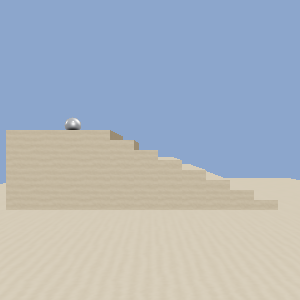
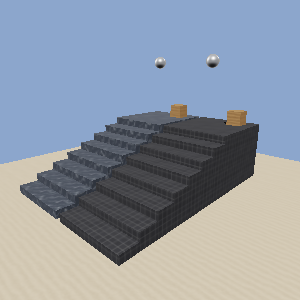
TUTORIALS physics_stairs_material: wet stone and rubber lanes side by side
- physics_stairs_material: two flights, wet-stone (defined, friction 0.05, restitution 0) and rubber (preset); a wooden crate and a dropped steel ball on each, pushed alike
- test_physics_tutorials: the wet-stone crate ends on the floor and the rubber one on its landing; the ball rebounds 0.585 m from rubber and 0.059 m from wet stone
- docs/physics.rst: the tutorial's row names what it shows
- reference image and docs screenshot of the new scene

Changed region(s): [[0.0, 0.33, 1.0, 0.9], [0.51, 0.18, 0.57, 0.24], [0.69, 0.18, 0.75, 0.24]]

diff --git a/tests/tutorials/physics/physics_stairs_material.py b/tests/tutorials/physics/physics_stairs_material.py
@@ -5,28 +5,112 @@
 
 A material says how a surface grips and bounces. Four are defined from the
 start: ``wood``, ``metal``, ``rubber`` and ``ice``. ``physics.materials.define``
-adds others, and a body takes one by name. The stairs of
-:doc:`physics_stairs` become wet stone: slippery, and dead to a bounce.
+adds others, and a body takes one by name.
+
+The stairs of :doc:`physics_stairs` are split into two lanes. The left lane is
+wet stone, a material defined here: slippery, and dead to a bounce. The right
+lane is rubber matting, the preset. Each lane has a wooden crate on its landing
+and a steel ball dropped onto it, and the two lanes' crates and balls get the
+same push down the stairs. The crate on the wet stone skids off the landing and
+slides down to the floor; the crate on the rubber stops on its landing, 1.4 m
+from where it started. The ball dropped on the rubber bounces 0.6 m back up;
+the ball dropped on the wet stone rises 6 cm.
 '''
-from physics_stairs import START, StairsContext
+from OpenGLContext.scenegraph import surfaces
+from OpenGLContext.scenegraph.basenodes import (
+    Background, DirectionalLight, Transform, sceneGraph,
+)
+
+from physics_stairs import RADIUS, RISE, RUN, STEPS, StairsContext, make_ball
+
+'''Each lane is 2.4 m wide, centred 1.3 m either side of the middle, with a
+0.2 m gap between them. The crates are 0.5 m cubes. Each ball starts 2 m above
+its landing, and each crate stands on the landing 1.6 m behind the first step.'''
+WIDTH = 2.4
+LANES = {'wet-stone': -1.3, 'rubber': 1.3}
+CRATE = 0.5
+TOP = STEPS * RISE
+DROP = 2.0
+BACK = -1.6
+
+
+def make_flight(maps, x, roughness):
+    '''A landing and eight steps, ``WIDTH`` wide and centred on ``x``, of the
+    stone or matting ``maps`` describes.'''
+    wearing = surfaces.pbr_material(maps, roughness=roughness)
+    parts = [surfaces.shape(surfaces.block((WIDTH, TOP, 2)), wearing,
+                            translation=(x, TOP / 2, -1))]
+    for step in range(STEPS):
+        height = (STEPS - step) * RISE
+        parts.append(surfaces.shape(
+            surfaces.block((WIDTH, height, RUN)), wearing,
+            translation=(x, height / 2, step * RUN + RUN / 2)))
+    return Transform(children=parts)
+
+
+def make_crate():
+    '''A crate of planed oak.'''
+    oak = surfaces.pbr_material(surfaces.wood(256), roughness=0.8)
+    return surfaces.shape(surfaces.block((CRATE, CRATE, CRATE)), oak)
 
 
 class TestContext(StairsContext):
+    '''The camera stands below the stairs and to the right, so that both lanes
+    and the drop of each step show.'''
+    initialPosition = (6.0, 3.8, 7.6)
+    initialOrientation = (-0.3413, 0.9302, 0.1349, 0.8039)
+
     def OnInit(self):
-        super().OnInit()
+        '''The wet stone is a black marble with a polish on it, and the
+        matting is black rubber tiles. The floor is the sandstone of the series.'''
+        self.flights = {
+            'wet-stone': make_flight(
+                surfaces.marble(256, base=(0.08, 0.09, 0.11), vein=(0.42, 0.44, 0.47),
+                                polish=0.1), LANES['wet-stone'], 1.0),
+            'rubber': make_flight(
+                surfaces.tiles(256, count=6, colour=(0.05, 0.05, 0.055),
+                               grout=(0.16, 0.16, 0.16), glaze=0.9),
+                LANES['rubber'], 1.0),
+        }
+        sandstone = surfaces.pbr_material(surfaces.sandstone(256), roughness=0.9)
+        floor = surfaces.shape(surfaces.block((12, 0.2, 14)), sandstone,
+                               translation=(0, -0.1, 2))
+        self.balls = {name: make_ball() for name in LANES}
+        self.crates = {name: make_crate() for name in LANES}
+        self.sg = sceneGraph(children=[
+            Background(skyColor=[(0.55, 0.65, 0.8)]),
+            DirectionalLight(direction=(-0.4, -0.7, -0.5), intensity=3.0),
+            floor, *self.flights.values(), *self.balls.values(), *self.crates.values(),
+        ])
         '''``friction`` is the coefficient of friction, as a pair of surfaces
-        slides and as they hold; 0.1 is nearly ice and 1.0 is rubber on
+        slides and as they hold; 0.05 is nearly ice and 1.0 is rubber on
         concrete. ``restitution`` is the fraction of the closing speed a bounce
-        returns, from 0 for clay to 1 for a bounce that loses nothing. Where two
-        bodies meet, each coefficient is the average of the two materials'.'''
-        self.physics.materials.define('wet-stone', friction=0.1, restitution=0.05)
-        '''The stairs are in the scene, so they are already static. Adding them
-        again with a material replaces the body the scene made for them. Doing it
+        returns, from 0 for clay to 1 for a bounce that loses nothing.'''
+        self.physics.materials.define('wet-stone', friction=0.05, restitution=0.0)
+        '''The flights are in the scene, so they are already static. Adding one
+        again with a material replaces the body the scene made for it. Doing it
         before the first frame, as here, means the scene's body is never made.'''
-        self.stairs_body = self.physics.add_static(self.stairs, material='wet-stone')
-        self.body = self.physics.add_dynamic(
-            self.ball, translation=START, mass=2.0, restitution=0.4)
-        self.body.apply_impulse((0, 0, 8))
+        self.lanes = {name: self.physics.add_static(flight, material=name)
+                      for name, flight in self.flights.items()}
+        '''Where two bodies meet, each coefficient is the average of the two
+        materials'. The crates are ``wood``, which has a friction of 0.4 and a
+        restitution of 0.2, so a crate grips the wet stone at 0.225 and the
+        rubber at 0.65. The ball has a restitution of 0.4, so it keeps 20% of
+        its speed from a bounce on the wet stone and 60% on the rubber.
+
+        The pushes are the same in both lanes: 45 N*s on a 10 kg crate is
+        4.5 m/s, and 4 N*s on a 2 kg ball is 2 m/s.'''
+        self.bodies = {}
+        for name, x in LANES.items():
+            crate = self.physics.add_dynamic(
+                self.crates[name], proxy='box', material='wood', mass=10.0,
+                translation=(x + 0.6, TOP + CRATE / 2 + 0.01, BACK))
+            ball = self.physics.add_dynamic(
+                self.balls[name], mass=2.0, restitution=0.4,
+                translation=(x - 0.6, TOP + RADIUS + DROP, BACK))
+            crate.apply_impulse((0, 0, 45))
+            ball.apply_impulse((0, 0, 4))
+            self.bodies[name] = crate, ball
 
 
 if __name__ == '__main__':

diff --git a/tests/unit/test_physics_tutorials.py b/tests/unit/test_physics_tutorials.py
@@ -195,23 +195,47 @@ def test_the_proxies_are_drawn_over_the_scene(gl_context):
 
 # -- 4. a new material ------------------------------------------------------------------
 
-def test_the_stairs_take_the_defined_material_and_the_ball_leaves_them_sooner(gl_context):
-    def seconds_to_floor(name):
-        with running('physics', name) as run:
-            run.frame()
-            assert run.until(lambda: run.context.ball.translation[1] < 0.3, seconds=30.0)
-            return run.clock.elapsed
+def run_both_lanes(seconds=6.0):
+    """Each lane's crate where it ends, and how high each ball rose from its landing after the first strike.
 
-    plain = seconds_to_floor('physics_stairs')
+    The heights are read after every step of the world, so a bounce between
+    two frames is not missed.
+    """
     with running('physics', 'physics_stairs_material') as run:
-        run.frame()
-        assert run.until(lambda: run.context.ball.translation[1] < 0.3, seconds=30.0)
-        wet = run.clock.elapsed
-        assert run.context.stairs_body.material == 'wet-stone'
-        defined = run.physics.materials.get('wet-stone').material
-        assert defined.dynamicFriction == pytest.approx(0.1)
-        assert defined.restitution == pytest.approx(0.05)
-    assert wet < plain
+        context, module = run.context, run.module
+        assert {name: body.material for name, body in context.lanes.items()} == {
+            'wet-stone': 'wet-stone', 'rubber': 'rubber'}
+        balls = {name: ball for name, (_, ball) in context.bodies.items()}
+        landed, rebound = set(), dict.fromkeys(balls, 0.0)
+
+        def record(view):
+            for name, at in zip(balls, view.poses(list(balls.values())).position):
+                above = float(at[1]) - module.RADIUS - module.TOP
+                if above < 0.01:
+                    landed.add(name)
+                elif name in landed and at[2] < module.RUN:      # over the landing or the top step
+                    rebound[name] = max(rebound[name], above)
+
+        run.physics.on_step(record)
+        run.seconds(seconds)
+        crates = {name: np.array(crate.position) for name, (crate, _) in context.bodies.items()}
+        return crates, rebound, landed
+
+
+def test_the_crate_skids_off_the_wet_stone_and_holds_on_the_rubber(gl_context):
+    crates, _, _ = run_both_lanes()
+    wet, rubber = crates['wet-stone'], crates['rubber']
+    assert wet[1] < 0.3 and wet[2] > 5.0                # on the floor below the stairs (z 5.34)
+    assert rubber[1] > 2.2 and rubber[2] < 0.0          # on its landing, 1.4 m on (z -0.22)
+    assert wet[2] - rubber[2] > 4.5                     # 5.56 m apart along the stairs
+
+
+def test_the_ball_bounces_from_the_rubber_and_not_from_the_wet_stone(gl_context):
+    _, rebound, landed = run_both_lanes()
+    assert landed == {'wet-stone', 'rubber'}
+    assert rebound['rubber'] > 0.45                     # 0.585 m
+    assert rebound['wet-stone'] < 0.12                  # 0.059 m
+    assert rebound['rubber'] > 4 * rebound['wet-stone']
 
 
 # -- 5. a gravity zone ------------------------------------------------------------------

diff --git a/docs/physics.rst b/docs/physics.rst
@@ -75,7 +75,8 @@ at a time, and each changes one thing about it:
    * - :doc:`tutorials/physics/physics_stairs_shapes`
      - ``proxy=``, ``physics.cook``, ``show_proxies``
    * - :doc:`tutorials/physics/physics_stairs_material`
-     - ``physics.materials.define``
+     - ``physics.materials.define``, ``material=``: wet stone and rubber lanes,
+       a crate that skids or holds and a ball that thuds or bounces
    * - :doc:`tutorials/physics/physics_stairs_gravity`
      - ``add_gravity_zone``
    * - :doc:`tutorials/physics/physics_stairs_sound`
